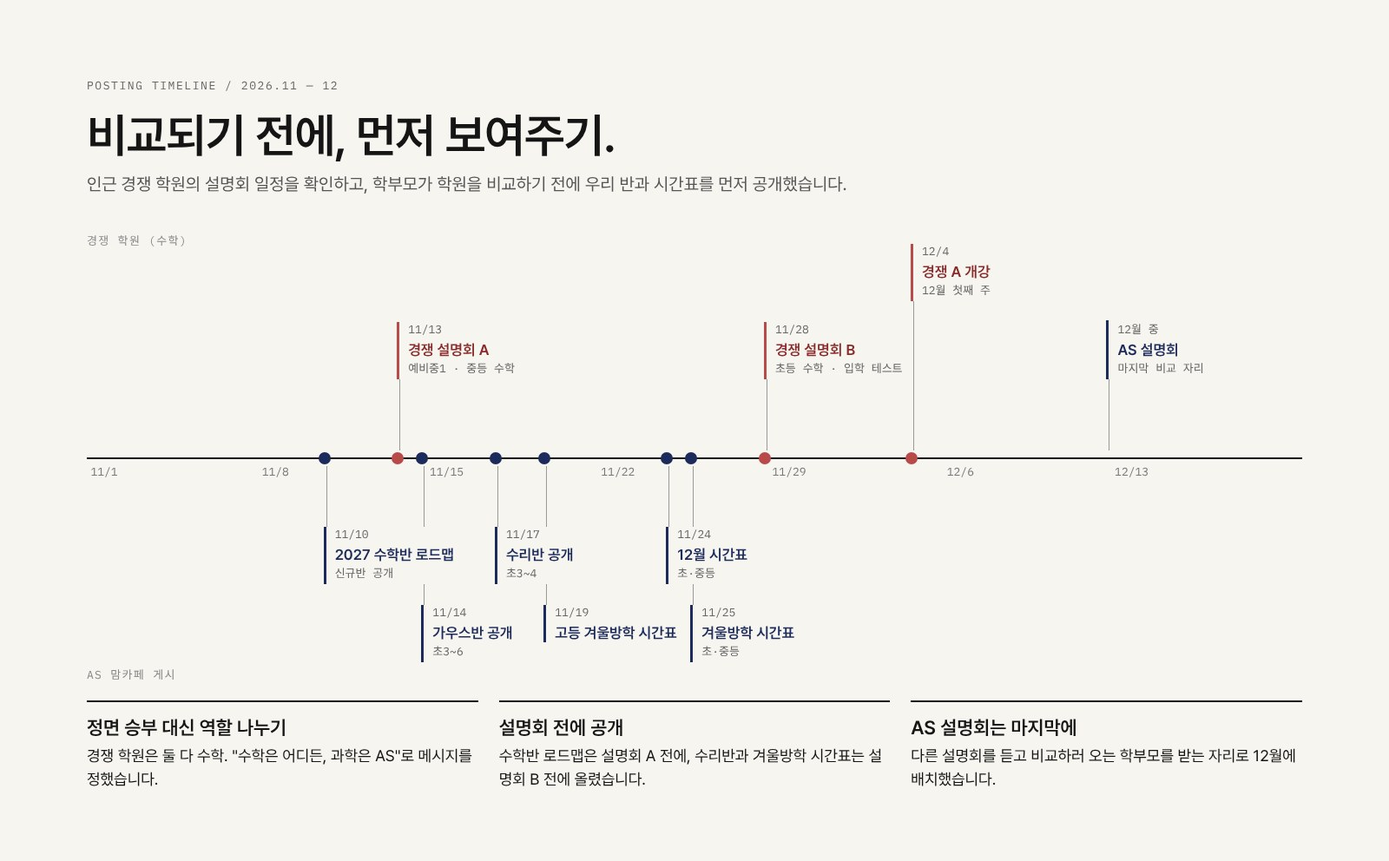
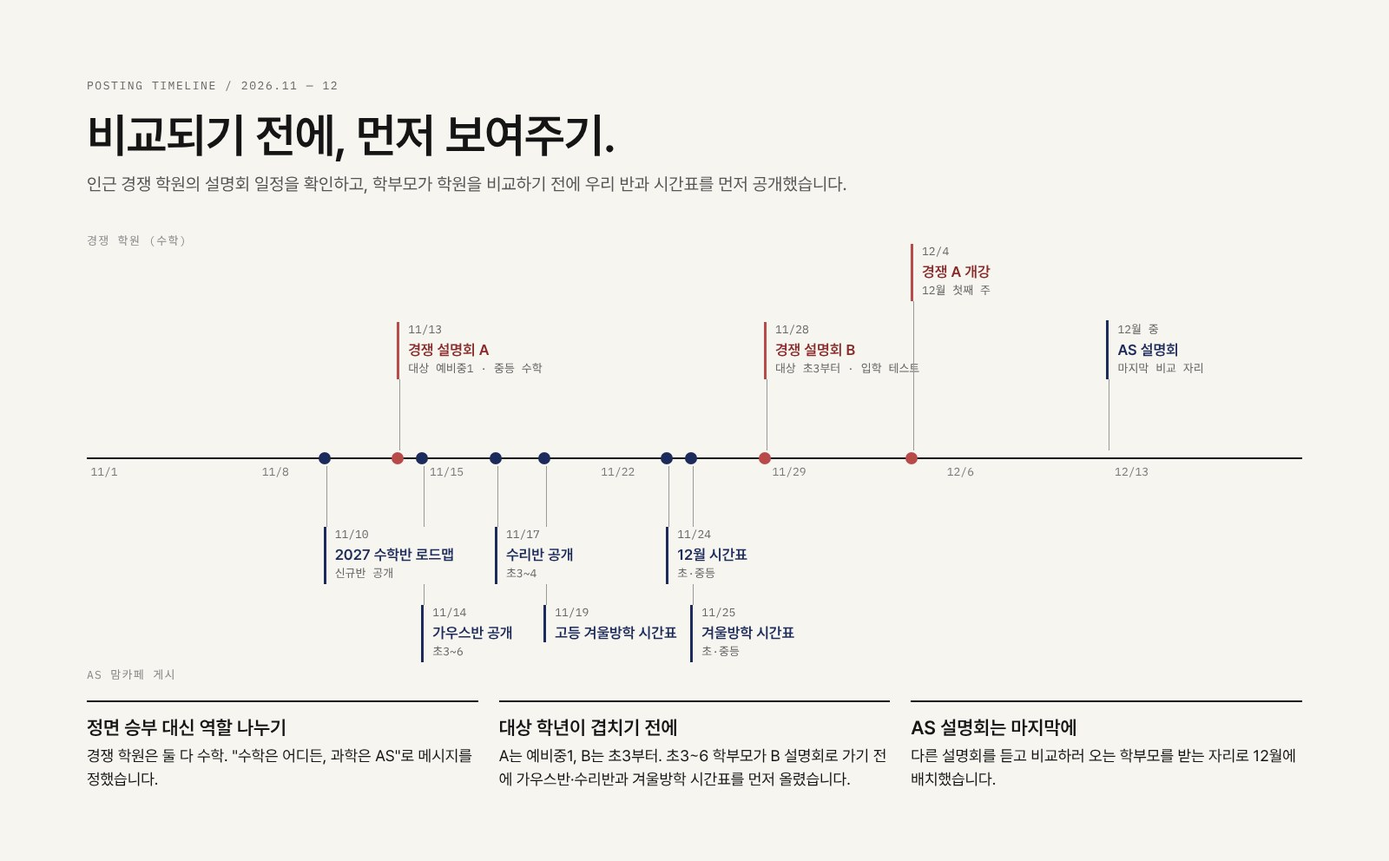
AS timeline: target-grade timing logic
Claude-Session: https://claude.ai/code/session_01WC9CqeZRuSjwf3RN9q8Xjm

Changed region(s): [[0.3438, 0.8125, 0.625, 0.9375], [0.5625, 0.4062, 0.6562, 0.4375], [0.2812, 0.4062, 0.375, 0.4375]]

diff --git a/curation-data.js b/curation-data.js
@@ -1,1 +1,1 @@
-window.PORTFOLIO_EDITION = {"lilcherry":{"kicker":"WONDERPLACE × LIL CHERRY","title":"Crying in<br><em>da club.</em>","subtitle":"협업 그래픽이 상품과 아티스트의 실제 착용으로 이어지다.","note":"담당: 협업 상품 그래픽 디자인. 홍대 팝업은 2024년 8월 진행되었으며, 팝업·공연 사진은 실제 착용을 보여주는 기록입니다.","sections":[{"id":"wear","label":"REAL APPLICATION","title":"그래픽이 입혀지는 순간.","copy":"협업 의상과 모자를 착용한 팝업·공연 현장. 상품 위에서 그래픽의 크기와 인상이 어떻게 읽히는지 함께 볼 수 있습니다.","refs":[{"file":"ed/lil-wear.webp","crop":[84,280,755,1340]},{"file":"ed/lil-stage.webp","crop":[0,1285,1079,605]}],"caps":["홍대 팝업 · 협업 의상과 모자 착용 / 원더플레이스·Daily Fashion News 게시물","공연 · 협업 의상과 모자 착용 / CRYINGINDACLUB 게시물"],"layout":"spread","nav":"실제 착용"},{"id":"art","label":"ORIGINAL ARTWORK","title":"체리와 레터링,<br><em>하나의 협업 그래픽.</em>","copy":"최종 확정한 그래픽 원본입니다. 레터링과 체리 모티프를 조합하고 서로 다른 질감과 표현으로 전개했습니다.","refs":["ed/lil-art-0.webp","ed/lil-art-1.webp"],"caps":["최종 그래픽 · 블랙 배경 버전","최종 그래픽 · 화이트 배경 버전"],"layout":"art","nav":"그래픽 원본"},{"id":"proposal","label":"DESIGN DEVELOPMENT","title":"제안에서 상품으로.","copy":"제안서에 담긴 디자인은 실제 상품으로 제작되었습니다. 아래는 원본 제안서의 레터링 개발과 상품 적용 페이지입니다.","refs":["ed/lil-proposal-2.webp","ed/lil-proposal-7.webp"],"caps":["원본 제안서 · 레터링 개발 (참고 이미지 포함)","원본 제안서 · 의상 적용 디자인"],"layout":"wide","nav":"제안서"},{"id":"popup","label":"POP-UP RECORD","title":"협업이 소개된 공간.","copy":"상품이 소개된 홍대 팝업의 현장 기록입니다.","refs":[{"file":"ed/lil-popup.webp","crop":[106,65,818,1400]}],"caps":["홍대 팝업 현장 / imtheboi.seoul 게시물"],"layout":"single","nav":"팝업 현장"}]},"cmnz":{"kicker":"COMONINOZ / 2024 — 2025","title":"Graphics,<br><em>made tangible.</em>","subtitle":"원본 그래픽에서 니트 조직과 상품의 디테일까지.","note":"담당: 상품 그래픽 디자인. 2024년 10월 판매 반응을 바탕으로 다음 해 코위찬 스타일로 리디자인한 작업을 함께 소개합니다.","sections":[{"id":"knit","label":"2024 / GRAPHIC KNIT","title":"그림이 니트의 표정이 되다.","copy":"모티프와 레터링을 앞·뒤판과 소매에 배치한 그래픽 니트. 원본의 형태가 니트 조직 안에서 어떻게 표현되는지 보여줍니다.","refs":[{"file":"ed/cm-wear.webp","crop":[0,248,709,850]},"cm/w24_kn_gy.jpg","cm/w24_kn_back.jpg","cm/w24_kn_bg.jpg"],"caps":["고객 착용 스냅 / 무신사","그래픽 니트 · 앞면","그래픽 니트 · 뒷면","Beige"],"layout":"knit","nav":"니트 룩북"},{"id":"original","label":"ORIGINAL ARTWORK","title":"상품이 되기 전의 도안.","copy":"구름, 꽃, 곰과 추상 도형, 체커보드를 조합한 원본 그래픽입니다.","refs":["ed/cm-knit-art.webp"],"caps":["니트 부위별 그래픽 원본"],"layout":"wide","nav":"그래픽 원본"},{"id":"redesign","label":"SEASON REDESIGN","title":"판매 반응에서 이어진<br><em>다음 시즌.</em>","copy":"기존 제품의 판매 반응을 바탕으로 다음 해 코위찬 스타일로 재전개한 그래픽입니다. 겨울 모티프와 레터링으로 구성을 바꿨습니다.","refs":["ed/cm-redesign.webp"],"caps":["후속 코위찬 리디자인 · 원본 도안"],"layout":"wide","nav":"시즌 리디자인"},{"id":"customer","label":"REAL WEAR","title":"일상에서 입혀진 그래픽.","copy":"실제 고객 착용 사례입니다.","refs":[{"file":"ed/cm-wear.webp","crop":[0,248,709,850]}],"caps":["고객 착용 스냅 / 무신사 게시물"],"layout":"single","nav":"실제 착용"}],"appendExisting":true},"op-ss":{"kicker":"OCEAN PACIFIC / 2025 SS","title":"Summer<br><em>Midnight Beach.</em>","subtitle":"서프 무드를 서로 다른 그래픽 언어로.","note":"담당: 상품 그래픽 디자인. 그래픽 원본과 실제 상품·룩북의 적용을 함께 소개합니다.","sections":[{"id":"glitch","label":"GLITCH / PRODUCT","title":"색의 어긋남으로 만드는 리듬.","copy":"야자수와 레터링에 픽셀과 색 어긋남을 더해 전개한 서프 그래픽입니다.","refs":[97,99],"caps":["글리치 그래픽 · 제품 착용 앞·뒤 맥락","글리치 그래픽 · 뒷면 적용"],"layout":"spread","nav":"글리치 적용"},{"id":"glitchart","label":"ORIGINAL ARTWORK","title":"글리치 그래픽 원본.","copy":"원본의 색과 형태를 그대로 보여줍니다.","refs":["ed/op-glitch.webp"],"caps":["Ocean Pacific · 원본 그래픽"],"layout":"wide","nav":"그래픽 원본"},{"id":"surfer","label":"ILLUSTRATION / PRODUCT","title":"하나의 서핑 장면.","copy":"캐릭터, 파도와 레터링을 하나의 장면으로 구성한 그래픽입니다.","refs":["ed/op-surfer.webp",137],"caps":["컬러 서퍼 · 원본 그래픽","컬러 서퍼 · 제품 착용"],"layout":"art-product","nav":"서퍼 일러스트"},{"id":"details","label":"PRODUCT DETAILS","title":"원단 위의 색과 질감.","copy":"완성 제품에서 그래픽의 크기와 인쇄 질감을 볼 수 있습니다.","refs":[42,107],"caps":["서퍼 그래픽 · 제품 적용","글리치 그래픽 · 프린트 디테일"],"layout":"spread","nav":"제품 디테일"}],"appendArchive":true},"ee-open":{"kicker":"EE / DONG-BUSAN STORE","title":"Accessories,<br><em>in store.</em>","subtitle":"상품을 고르는 장면에 놓이는 매장 포스터.","note":"담당: 2026년 10월 EE 동부산점 잡화 오픈 포스터 디자인. 매장 사진은 실제 설치 맥락을 보여주는 기록입니다.","sections":[{"id":"poster","label":"POSTER DESIGN","title":"착용 장면에서 시작하는 포스터.","copy":"이어폰, 헤어핀, 슈슈와 머플러. 상품이 사용되는 모습을 포스터로 풀어 매장의 각 상품군과 연결했습니다.","refs":["ed/ee-poster-1.webp","ed/ee-poster-7.webp","ed/ee-poster-2.webp","ed/ee-poster-8.webp"],"caps":["이어폰·액세서리 포스터","슈슈 포스터 · 컬러별 레터링","헤어핀 포스터","머플러 포스터"],"layout":"spread","nav":"상품 포스터"},{"id":"lettering","label":"LETTERING / MOOD","title":"매장에 더하는 목소리.","copy":"사진 포스터와 함께 사용한 타이포그래피 작업입니다.","refs":["ed/ee-poster-0.webp","ed/ee-poster-6.webp"],"caps":["This is my happy place","Find new somethings"],"layout":"spread","nav":"레터링"},{"id":"store","label":"INSTALLED / RETAIL","title":"실제 상품 옆에 놓였을 때.","copy":"포스터와 해당 상품이 함께 보이는 매장 설치 기록입니다.","refs":["ed/ee-store-0.webp","ed/ee-store-1.webp","ed/ee-store-2.webp"],"caps":["동부산점 · 실제 설치","동부산점 · 헤어 액세서리 구역","동부산점 · 잡화 포스터 적용"],"layout":"evidence","nav":"매장 설치"}]},"oh-invite":{"kicker":"ORDINARY HOLIDAY / HANNAM POP-UP","title":"Ordinary<br><em>House.</em>","subtitle":"브랜드의 집으로 초대하는 인비테이션.","note":"담당: 2024년 9월 한남 팝업 인비테이션 디자인. 원본 제작 시안과 열쇠 삽입 구조를 소개합니다.","sections":[{"id":"invitation","label":"INVITATION / 2024.09","title":"초대장을 펼치는 경험.","copy":"Ordinary House에 들러 달라는 문구와 열쇠를 가져오라는 메시지, 열쇠를 끼우는 구조를 연결했습니다.","refs":[{"file":"ed/oh-invitation.webp","crop":[175,173,706,1009]},{"file":"ed/oh-invitation.webp","crop":[1168,173,707,1009]}],"caps":["인비테이션 · 겉면","인비테이션 · 안쪽면"],"layout":"spread","nav":"초대장"},{"id":"production","label":"PRODUCTION GUIDE","title":"열쇠를 위한 작은 구조.","copy":"실물 열쇠에 맞춰 커팅 위치를 조정하도록 표시한 원본 제작 시안입니다.","refs":["ed/oh-invitation.webp"],"caps":["겉면·안쪽면과 열쇠 삽입 커팅 가이드"],"layout":"wide","nav":"제작 가이드"}]},"as":{"kicker":"AS SCIENCE ACADEMY / 2026","title":"From zero,<br><em>a neighborhood brand.</em>","subtitle":"동네 과학학원의 로고에서 교재, 굿즈, 상담까지.","note":"담당: 브랜딩·그래픽·마케팅·운영 시스템 1인 진행. 캐릭터와 일부 이미지는 레퍼런스를 바탕으로 AI를 활용해 제작하고 직접 다듬었습니다. 학생·선생님 개인정보와 연락처는 가렸습니다.","sections":[{"id":"cover","nav":"브랜드","title":"Advanced Science.","copy":"2026년 10월 문을 연 시흥 은계의 과학전문학원. 이름과 로고, 첫 문장부터 함께 만들었습니다.","refs":["as/cover-card.jpg","as/exterior.jpg"],"caps":["브랜드 문장 카드","외관 간판 · 창문 시트"],"layout":"offset"},{"id":"identity","nav":"아이덴티티","title":"One mark, every wall.","copy":"삼각형 A·S 심볼과 워드마크. 로고 8종을 고정하고, 색으로 학년을 나눴습니다 — 초록 초등 · 파랑 중등 · 빨강 고등 · 골드 퍼스트클래스.","refs":["as/logo-black.jpg","as/logo-white.jpg","as/lobby-sign.jpg","as/lobby-front.jpg","as/lobby-desk.jpg"],"caps":["로고 · 블랙","로고 · 워드마크","로비 사인","로비 정면","안내 데스크"],"layout":"identity"},{"id":"character","nav":"호양이","title":"Meet Hoyangi.","copy":"안경 쓴 치즈 고양이 호양이. 레퍼런스를 바탕으로 AI를 활용해 개발하고, 학원에 맞게 의상과 행동을 정리했습니다. 교복은 기본, 실험복은 초등, 승무원은 퍼스트클래스 전용. 얼굴·안경·비율은 바꾸지 않는 규칙을 둡니다.","refs":["as/hoyangi-student.jpg","as/hoyangi-lab.jpg"],"caps":["학생(교복) 버전 · 47컷 캐릭터 시트","실험복 버전 + 공용 컷"],"layout":"sheets"},{"id":"publication","nav":"교재 시리즈","title":"A series, not a cover.","copy":"표지 틀은 고정하고 색과 모티프만 바꿨습니다. 냥자역학은 권마다 상자·붕어빵·발바닥·네컷, 호양이의 정석은 초록 기본편 · 빨강 심화편.","refs":["as/nyang1.jpg","as/nyang2.jpg","as/nyang3.jpg","as/nyang4.jpg","as/jeongseok-basic.jpg","as/jeongseok-adv.jpg"],"caps":["냥자역학 1냥","냥자역학 2냥","냥자역학 3냥","냥자역학 4냥","호양이의 정석 · 기본편","호양이의 정석 · 심화편"],"layout":"series"},{"id":"note","nav":"오답노트","title":"Mistakes, the movie.","copy":"오답노트 「네모를 구하시오」. 영화 포스터처럼 '주연 호양이 · 감독 나 · 원작 내가 틀린 문제들'을 넣어, 틀린 문제를 다시 보는 일을 즐겁게 만들었습니다.","refs":["as/nemo-front.jpg","as/nemo-back.jpg"],"caps":["표지","뒷표지 · 교재 시리즈 안내"],"layout":"pair"},{"id":"subbrand","nav":"반 기획","title":"Every class, its own voice.","copy":"반 이름과 운영 구조를 직접 기획해 선생님들께 제안했습니다 — 수리반·가우스반·퍼스트클래스·프리메드반. 커리큘럼은 선생님들이 짜고, 이름과 비주얼은 같은 시스템 안에서 반마다 다른 목소리로. 수리반은 네이비와 초록, 퍼스트클래스는 비행기 창과 탑승권, 블랙과 골드.","refs":["as/suri-cover.jpg","as/first-cover.jpg","as/first-invite.jpg"],"caps":["수리반","퍼스트클래스","퍼스트클래스 초대장"],"layout":"three"},{"id":"goods","nav":"굿즈","title":"Taiyaki, everywhere.","copy":"교재의 모티프가 굿즈로 이어집니다. 냥자역학 2냥의 붕어빵과 3냥의 발바닥이 떡메모지와 핫팩이 되었습니다 — 겨울엔 붕어빵, 공부는 AS.","refs":["as/hotpack.jpg","as/memo.jpg","as/planner.jpg","as/keyring.jpg"],"caps":["핫팩 · 앞면 (연락처 가림)","떡메모지 2종","스터디 플래너","키링 자수 원고"],"layout":"goods"},{"id":"series","nav":"맘카페 연재","title":"Sixteen posts, one voice.","copy":"2026년 10월 오픈 인사부터 겨울방학 시간표까지, 맘카페에 16편을 연재했습니다. 대표 썸네일은 같은 로고·캐릭터·레이아웃 규칙으로 만들어 목록에서도 한눈에 AS로 보이게 했습니다.","refs":["as/feed.jpg"],"caps":["맘카페 연재 16편 대표 썸네일 · 조회수 2026.11.26 기준"],"layout":"wide"},{"id":"campaign","nav":"캠페인","title":"Cards that parents save.","copy":"맘카페와 인스타그램에 올린 캐러셀 카드. 수업 방식과 오답 관리를 한 장씩 보여주고, 시즌마다 캠페인으로 묶었습니다.","refs":["as/suri-2.jpg","as/suri-5.jpg","as/suri-7.jpg","as/suri-9.jpg","as/xmas-best3.jpg","as/xmas-class.jpg","as/benefit.jpg","as/seminar-seats.jpg"],"caps":["수리반 · 체크리스트","수리반 · 수업 방식","수리반 · 오답 관리","수리반 · 수업 피드백","겨울방학 · 질문 BEST 3","겨울방학 · 학년별 반","함께 등록 혜택","설명회 18석 마감"],"layout":"cards"},{"id":"data","nav":"데이터","title":"The title decides the click.","copy":"16편의 조회수를 정리해 보니 카드 완성도보다 제목이 클릭을 갈랐습니다. 학교 이름·실제 사례·혜택이 들어간 제목이 앞섰고, 이후 제목에 학교 이름과 대상 학년 태그를 넣었습니다. 게시 시점은 경쟁 학원 설명회 일정에 맞춰, 학부모가 비교하기 전에 먼저 보이도록 잡았습니다.","refs":["as/data-views.jpg","as/timeline.jpg"],"caps":["맘카페 게시글 16편 조회수 · 2026.11.26 기준","경쟁 학원 설명회 일정과 AS 게시 타이밍 · 2026.11"],"layout":"wide"},{"id":"system","nav":"운영 시스템","title":"Behind the counter.","copy":"보이는 디자인 뒤의 운영까지. QR 학습 리포트 안내, 선생님용 운영보드와 시간표 조율판, 상담 내용을 바탕으로 학부모 질문에 답하는 AI 상담 챗봇을 만들었습니다.","refs":["as/report.jpg"],"caps":["QR 학습 리포트 안내 카드"],"layout":"single"},{"id":"result","nav":"결과","title":"Result.","copy":"","refs":["as/result.jpg"],"caps":[""],"layout":"wide"}]}};
+window.PORTFOLIO_EDITION = {"lilcherry":{"kicker":"WONDERPLACE × LIL CHERRY","title":"Crying in<br><em>da club.</em>","subtitle":"협업 그래픽이 상품과 아티스트의 실제 착용으로 이어지다.","note":"담당: 협업 상품 그래픽 디자인. 홍대 팝업은 2024년 8월 진행되었으며, 팝업·공연 사진은 실제 착용을 보여주는 기록입니다.","sections":[{"id":"wear","label":"REAL APPLICATION","title":"그래픽이 입혀지는 순간.","copy":"협업 의상과 모자를 착용한 팝업·공연 현장. 상품 위에서 그래픽의 크기와 인상이 어떻게 읽히는지 함께 볼 수 있습니다.","refs":[{"file":"ed/lil-wear.webp","crop":[84,280,755,1340]},{"file":"ed/lil-stage.webp","crop":[0,1285,1079,605]}],"caps":["홍대 팝업 · 협업 의상과 모자 착용 / 원더플레이스·Daily Fashion News 게시물","공연 · 협업 의상과 모자 착용 / CRYINGINDACLUB 게시물"],"layout":"spread","nav":"실제 착용"},{"id":"art","label":"ORIGINAL ARTWORK","title":"체리와 레터링,<br><em>하나의 협업 그래픽.</em>","copy":"최종 확정한 그래픽 원본입니다. 레터링과 체리 모티프를 조합하고 서로 다른 질감과 표현으로 전개했습니다.","refs":["ed/lil-art-0.webp","ed/lil-art-1.webp"],"caps":["최종 그래픽 · 블랙 배경 버전","최종 그래픽 · 화이트 배경 버전"],"layout":"art","nav":"그래픽 원본"},{"id":"proposal","label":"DESIGN DEVELOPMENT","title":"제안에서 상품으로.","copy":"제안서에 담긴 디자인은 실제 상품으로 제작되었습니다. 아래는 원본 제안서의 레터링 개발과 상품 적용 페이지입니다.","refs":["ed/lil-proposal-2.webp","ed/lil-proposal-7.webp"],"caps":["원본 제안서 · 레터링 개발 (참고 이미지 포함)","원본 제안서 · 의상 적용 디자인"],"layout":"wide","nav":"제안서"},{"id":"popup","label":"POP-UP RECORD","title":"협업이 소개된 공간.","copy":"상품이 소개된 홍대 팝업의 현장 기록입니다.","refs":[{"file":"ed/lil-popup.webp","crop":[106,65,818,1400]}],"caps":["홍대 팝업 현장 / imtheboi.seoul 게시물"],"layout":"single","nav":"팝업 현장"}]},"cmnz":{"kicker":"COMONINOZ / 2024 — 2025","title":"Graphics,<br><em>made tangible.</em>","subtitle":"원본 그래픽에서 니트 조직과 상품의 디테일까지.","note":"담당: 상품 그래픽 디자인. 2024년 10월 판매 반응을 바탕으로 다음 해 코위찬 스타일로 리디자인한 작업을 함께 소개합니다.","sections":[{"id":"knit","label":"2024 / GRAPHIC KNIT","title":"그림이 니트의 표정이 되다.","copy":"모티프와 레터링을 앞·뒤판과 소매에 배치한 그래픽 니트. 원본의 형태가 니트 조직 안에서 어떻게 표현되는지 보여줍니다.","refs":[{"file":"ed/cm-wear.webp","crop":[0,248,709,850]},"cm/w24_kn_gy.jpg","cm/w24_kn_back.jpg","cm/w24_kn_bg.jpg"],"caps":["고객 착용 스냅 / 무신사","그래픽 니트 · 앞면","그래픽 니트 · 뒷면","Beige"],"layout":"knit","nav":"니트 룩북"},{"id":"original","label":"ORIGINAL ARTWORK","title":"상품이 되기 전의 도안.","copy":"구름, 꽃, 곰과 추상 도형, 체커보드를 조합한 원본 그래픽입니다.","refs":["ed/cm-knit-art.webp"],"caps":["니트 부위별 그래픽 원본"],"layout":"wide","nav":"그래픽 원본"},{"id":"redesign","label":"SEASON REDESIGN","title":"판매 반응에서 이어진<br><em>다음 시즌.</em>","copy":"기존 제품의 판매 반응을 바탕으로 다음 해 코위찬 스타일로 재전개한 그래픽입니다. 겨울 모티프와 레터링으로 구성을 바꿨습니다.","refs":["ed/cm-redesign.webp"],"caps":["후속 코위찬 리디자인 · 원본 도안"],"layout":"wide","nav":"시즌 리디자인"},{"id":"customer","label":"REAL WEAR","title":"일상에서 입혀진 그래픽.","copy":"실제 고객 착용 사례입니다.","refs":[{"file":"ed/cm-wear.webp","crop":[0,248,709,850]}],"caps":["고객 착용 스냅 / 무신사 게시물"],"layout":"single","nav":"실제 착용"}],"appendExisting":true},"op-ss":{"kicker":"OCEAN PACIFIC / 2025 SS","title":"Summer<br><em>Midnight Beach.</em>","subtitle":"서프 무드를 서로 다른 그래픽 언어로.","note":"담당: 상품 그래픽 디자인. 그래픽 원본과 실제 상품·룩북의 적용을 함께 소개합니다.","sections":[{"id":"glitch","label":"GLITCH / PRODUCT","title":"색의 어긋남으로 만드는 리듬.","copy":"야자수와 레터링에 픽셀과 색 어긋남을 더해 전개한 서프 그래픽입니다.","refs":[97,99],"caps":["글리치 그래픽 · 제품 착용 앞·뒤 맥락","글리치 그래픽 · 뒷면 적용"],"layout":"spread","nav":"글리치 적용"},{"id":"glitchart","label":"ORIGINAL ARTWORK","title":"글리치 그래픽 원본.","copy":"원본의 색과 형태를 그대로 보여줍니다.","refs":["ed/op-glitch.webp"],"caps":["Ocean Pacific · 원본 그래픽"],"layout":"wide","nav":"그래픽 원본"},{"id":"surfer","label":"ILLUSTRATION / PRODUCT","title":"하나의 서핑 장면.","copy":"캐릭터, 파도와 레터링을 하나의 장면으로 구성한 그래픽입니다.","refs":["ed/op-surfer.webp",137],"caps":["컬러 서퍼 · 원본 그래픽","컬러 서퍼 · 제품 착용"],"layout":"art-product","nav":"서퍼 일러스트"},{"id":"details","label":"PRODUCT DETAILS","title":"원단 위의 색과 질감.","copy":"완성 제품에서 그래픽의 크기와 인쇄 질감을 볼 수 있습니다.","refs":[42,107],"caps":["서퍼 그래픽 · 제품 적용","글리치 그래픽 · 프린트 디테일"],"layout":"spread","nav":"제품 디테일"}],"appendArchive":true},"ee-open":{"kicker":"EE / DONG-BUSAN STORE","title":"Accessories,<br><em>in store.</em>","subtitle":"상품을 고르는 장면에 놓이는 매장 포스터.","note":"담당: 2026년 10월 EE 동부산점 잡화 오픈 포스터 디자인. 매장 사진은 실제 설치 맥락을 보여주는 기록입니다.","sections":[{"id":"poster","label":"POSTER DESIGN","title":"착용 장면에서 시작하는 포스터.","copy":"이어폰, 헤어핀, 슈슈와 머플러. 상품이 사용되는 모습을 포스터로 풀어 매장의 각 상품군과 연결했습니다.","refs":["ed/ee-poster-1.webp","ed/ee-poster-7.webp","ed/ee-poster-2.webp","ed/ee-poster-8.webp"],"caps":["이어폰·액세서리 포스터","슈슈 포스터 · 컬러별 레터링","헤어핀 포스터","머플러 포스터"],"layout":"spread","nav":"상품 포스터"},{"id":"lettering","label":"LETTERING / MOOD","title":"매장에 더하는 목소리.","copy":"사진 포스터와 함께 사용한 타이포그래피 작업입니다.","refs":["ed/ee-poster-0.webp","ed/ee-poster-6.webp"],"caps":["This is my happy place","Find new somethings"],"layout":"spread","nav":"레터링"},{"id":"store","label":"INSTALLED / RETAIL","title":"실제 상품 옆에 놓였을 때.","copy":"포스터와 해당 상품이 함께 보이는 매장 설치 기록입니다.","refs":["ed/ee-store-0.webp","ed/ee-store-1.webp","ed/ee-store-2.webp"],"caps":["동부산점 · 실제 설치","동부산점 · 헤어 액세서리 구역","동부산점 · 잡화 포스터 적용"],"layout":"evidence","nav":"매장 설치"}]},"oh-invite":{"kicker":"ORDINARY HOLIDAY / HANNAM POP-UP","title":"Ordinary<br><em>House.</em>","subtitle":"브랜드의 집으로 초대하는 인비테이션.","note":"담당: 2024년 9월 한남 팝업 인비테이션 디자인. 원본 제작 시안과 열쇠 삽입 구조를 소개합니다.","sections":[{"id":"invitation","label":"INVITATION / 2024.09","title":"초대장을 펼치는 경험.","copy":"Ordinary House에 들러 달라는 문구와 열쇠를 가져오라는 메시지, 열쇠를 끼우는 구조를 연결했습니다.","refs":[{"file":"ed/oh-invitation.webp","crop":[175,173,706,1009]},{"file":"ed/oh-invitation.webp","crop":[1168,173,707,1009]}],"caps":["인비테이션 · 겉면","인비테이션 · 안쪽면"],"layout":"spread","nav":"초대장"},{"id":"production","label":"PRODUCTION GUIDE","title":"열쇠를 위한 작은 구조.","copy":"실물 열쇠에 맞춰 커팅 위치를 조정하도록 표시한 원본 제작 시안입니다.","refs":["ed/oh-invitation.webp"],"caps":["겉면·안쪽면과 열쇠 삽입 커팅 가이드"],"layout":"wide","nav":"제작 가이드"}]},"as":{"kicker":"AS SCIENCE ACADEMY / 2026","title":"From zero,<br><em>a neighborhood brand.</em>","subtitle":"동네 과학학원의 로고에서 교재, 굿즈, 상담까지.","note":"담당: 브랜딩·그래픽·마케팅·운영 시스템 1인 진행. 캐릭터와 일부 이미지는 레퍼런스를 바탕으로 AI를 활용해 제작하고 직접 다듬었습니다. 학생·선생님 개인정보와 연락처는 가렸습니다.","sections":[{"id":"cover","nav":"브랜드","title":"Advanced Science.","copy":"2026년 10월 문을 연 시흥 은계의 과학전문학원. 이름과 로고, 첫 문장부터 함께 만들었습니다.","refs":["as/cover-card.jpg","as/exterior.jpg"],"caps":["브랜드 문장 카드","외관 간판 · 창문 시트"],"layout":"offset"},{"id":"identity","nav":"아이덴티티","title":"One mark, every wall.","copy":"삼각형 A·S 심볼과 워드마크. 로고 8종을 고정하고, 색으로 학년을 나눴습니다 — 초록 초등 · 파랑 중등 · 빨강 고등 · 골드 퍼스트클래스.","refs":["as/logo-black.jpg","as/logo-white.jpg","as/lobby-sign.jpg","as/lobby-front.jpg","as/lobby-desk.jpg"],"caps":["로고 · 블랙","로고 · 워드마크","로비 사인","로비 정면","안내 데스크"],"layout":"identity"},{"id":"character","nav":"호양이","title":"Meet Hoyangi.","copy":"안경 쓴 치즈 고양이 호양이. 레퍼런스를 바탕으로 AI를 활용해 개발하고, 학원에 맞게 의상과 행동을 정리했습니다. 교복은 기본, 실험복은 초등, 승무원은 퍼스트클래스 전용. 얼굴·안경·비율은 바꾸지 않는 규칙을 둡니다.","refs":["as/hoyangi-student.jpg","as/hoyangi-lab.jpg"],"caps":["학생(교복) 버전 · 47컷 캐릭터 시트","실험복 버전 + 공용 컷"],"layout":"sheets"},{"id":"publication","nav":"교재 시리즈","title":"A series, not a cover.","copy":"표지 틀은 고정하고 색과 모티프만 바꿨습니다. 냥자역학은 권마다 상자·붕어빵·발바닥·네컷, 호양이의 정석은 초록 기본편 · 빨강 심화편.","refs":["as/nyang1.jpg","as/nyang2.jpg","as/nyang3.jpg","as/nyang4.jpg","as/jeongseok-basic.jpg","as/jeongseok-adv.jpg"],"caps":["냥자역학 1냥","냥자역학 2냥","냥자역학 3냥","냥자역학 4냥","호양이의 정석 · 기본편","호양이의 정석 · 심화편"],"layout":"series"},{"id":"note","nav":"오답노트","title":"Mistakes, the movie.","copy":"오답노트 「네모를 구하시오」. 영화 포스터처럼 '주연 호양이 · 감독 나 · 원작 내가 틀린 문제들'을 넣어, 틀린 문제를 다시 보는 일을 즐겁게 만들었습니다.","refs":["as/nemo-front.jpg","as/nemo-back.jpg"],"caps":["표지","뒷표지 · 교재 시리즈 안내"],"layout":"pair"},{"id":"subbrand","nav":"반 기획","title":"Every class, its own voice.","copy":"반 이름과 운영 구조를 직접 기획해 선생님들께 제안했습니다 — 수리반·가우스반·퍼스트클래스·프리메드반. 커리큘럼은 선생님들이 짜고, 이름과 비주얼은 같은 시스템 안에서 반마다 다른 목소리로. 수리반은 네이비와 초록, 퍼스트클래스는 비행기 창과 탑승권, 블랙과 골드.","refs":["as/suri-cover.jpg","as/first-cover.jpg","as/first-invite.jpg"],"caps":["수리반","퍼스트클래스","퍼스트클래스 초대장"],"layout":"three"},{"id":"goods","nav":"굿즈","title":"Taiyaki, everywhere.","copy":"교재의 모티프가 굿즈로 이어집니다. 냥자역학 2냥의 붕어빵과 3냥의 발바닥이 떡메모지와 핫팩이 되었습니다 — 겨울엔 붕어빵, 공부는 AS.","refs":["as/hotpack.jpg","as/memo.jpg","as/planner.jpg","as/keyring.jpg"],"caps":["핫팩 · 앞면 (연락처 가림)","떡메모지 2종","스터디 플래너","키링 자수 원고"],"layout":"goods"},{"id":"series","nav":"맘카페 연재","title":"Sixteen posts, one voice.","copy":"2026년 10월 오픈 인사부터 겨울방학 시간표까지, 맘카페에 16편을 연재했습니다. 대표 썸네일은 같은 로고·캐릭터·레이아웃 규칙으로 만들어 목록에서도 한눈에 AS로 보이게 했습니다.","refs":["as/feed.jpg"],"caps":["맘카페 연재 16편 대표 썸네일 · 조회수 2026.11.26 기준"],"layout":"wide"},{"id":"campaign","nav":"캠페인","title":"Cards that parents save.","copy":"맘카페와 인스타그램에 올린 캐러셀 카드. 수업 방식과 오답 관리를 한 장씩 보여주고, 시즌마다 캠페인으로 묶었습니다.","refs":["as/suri-2.jpg","as/suri-5.jpg","as/suri-7.jpg","as/suri-9.jpg","as/xmas-best3.jpg","as/xmas-class.jpg","as/benefit.jpg","as/seminar-seats.jpg"],"caps":["수리반 · 체크리스트","수리반 · 수업 방식","수리반 · 오답 관리","수리반 · 수업 피드백","겨울방학 · 질문 BEST 3","겨울방학 · 학년별 반","함께 등록 혜택","설명회 18석 마감"],"layout":"cards"},{"id":"data","nav":"데이터","title":"The title decides the click.","copy":"16편의 조회수를 정리해 보니 카드 완성도보다 제목이 클릭을 갈랐습니다. 학교 이름·실제 사례·혜택이 들어간 제목이 앞섰고, 이후 제목에 학교 이름과 대상 학년 태그를 넣었습니다. 게시 시점은 경쟁 학원 설명회의 대상 학년에 맞춰 잡았습니다 — 예비중1 대상 설명회 A, 초3부터 대상 설명회 B. 초3~6 학부모가 B로 가기 전에 가우스반·수리반을 먼저 공개했습니다.","refs":["as/data-views.jpg","as/timeline.jpg"],"caps":["맘카페 게시글 16편 조회수 · 2026.11.26 기준","경쟁 학원 설명회 일정과 AS 게시 타이밍 · 2026.11"],"layout":"wide"},{"id":"system","nav":"운영 시스템","title":"Behind the counter.","copy":"보이는 디자인 뒤의 운영까지. QR 학습 리포트 안내, 선생님용 운영보드와 시간표 조율판, 상담 내용을 바탕으로 학부모 질문에 답하는 AI 상담 챗봇을 만들었습니다.","refs":["as/report.jpg"],"caps":["QR 학습 리포트 안내 카드"],"layout":"single"},{"id":"result","nav":"결과","title":"Result.","copy":"","refs":["as/result.jpg"],"caps":[""],"layout":"wide"}]}};
